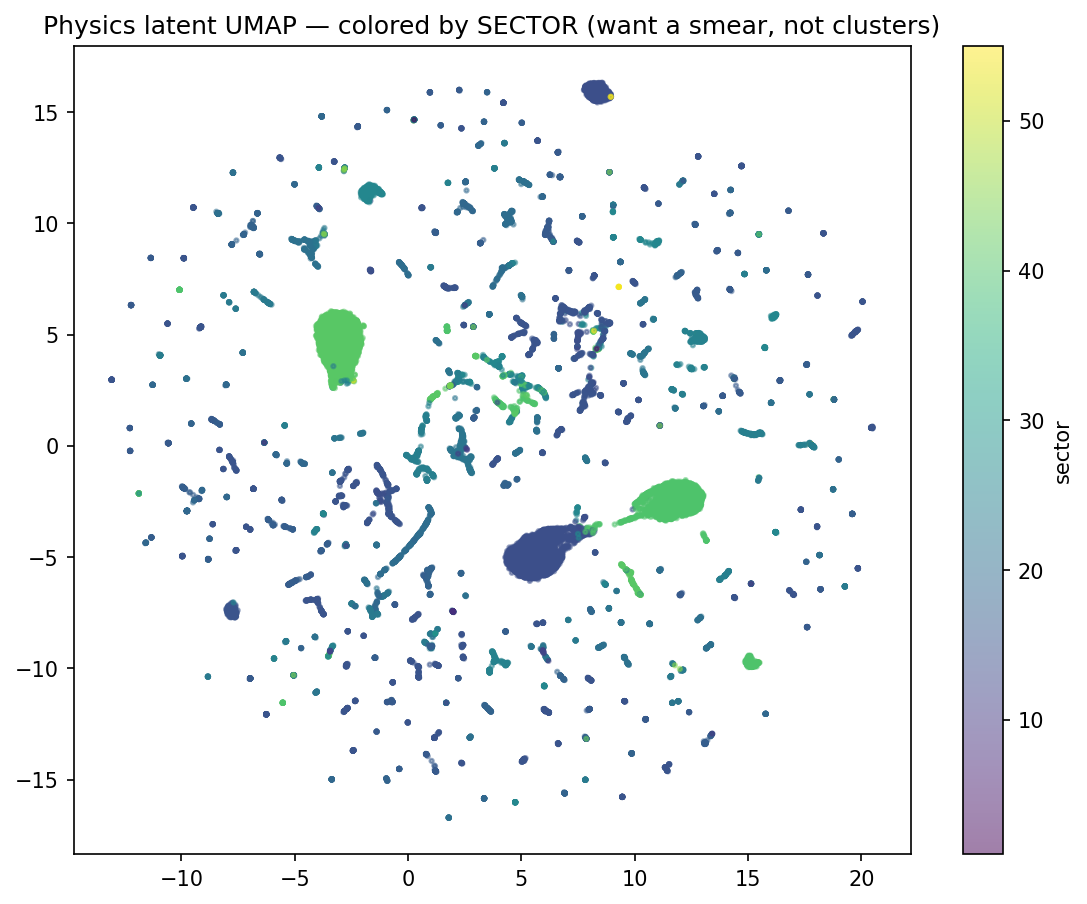
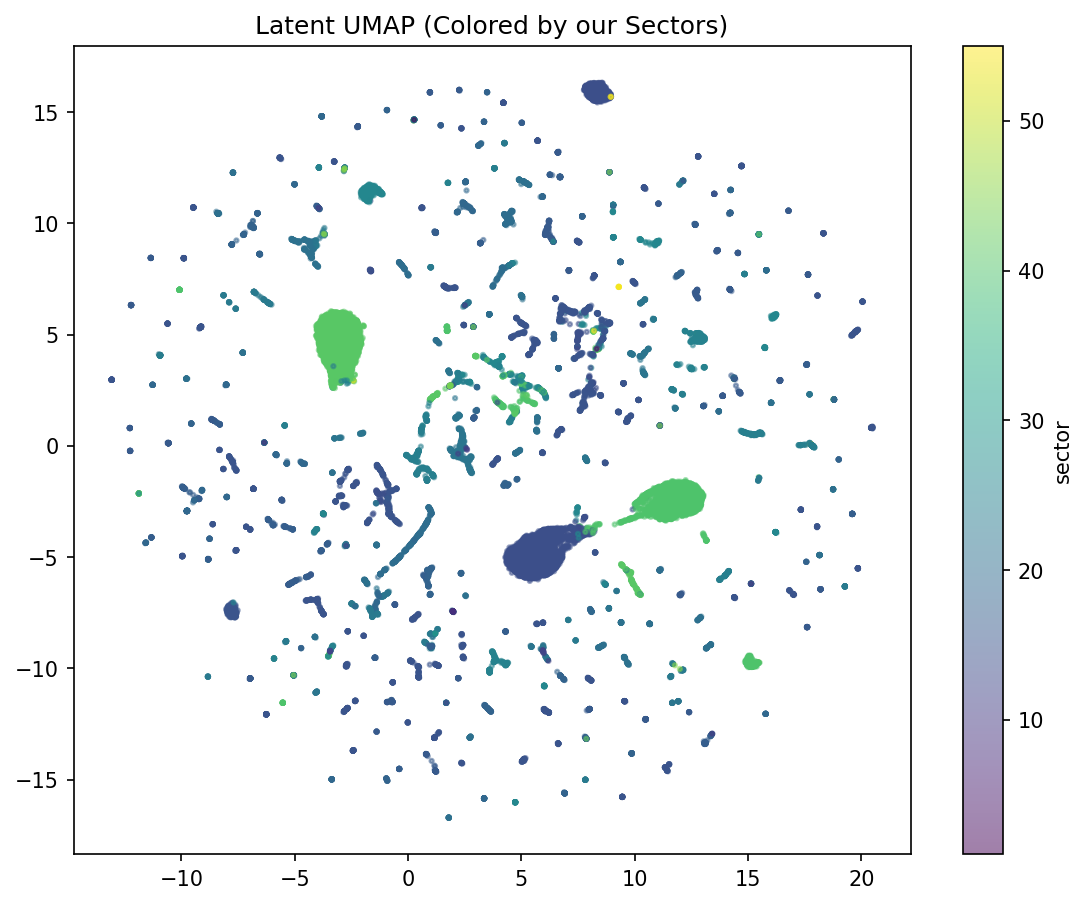
made sure that the augmentation is in forward

Changed region(s): [[0.0304, 0.0, 0.6983, 0.0619], [0.7286, 0.0, 0.85, 0.0619]]

diff --git a/src/models/physics_jepa.py b/src/models/physics_jepa.py
@@ -81,16 +81,15 @@ class PhysicsJEPA(nn.Module):
     
     def forward(self, flux, mask):
 
-        online_flux, online_mask = self.mask_input(flux, mask)
+        online_flux, online_mask = self.augment(flux, mask)
+        target_flux, target_mask = self.augment(flux, mask)
+
         z_online = self.online_encoder(online_flux.unsqueeze(-1), online_mask)
         prediction = self.predictor(z_online)
 
-
-
         with torch.no_grad():
-            z_target = self.target_encoder(flux.unsqueeze(-1), mask)
+            z_target = self.target_encoder(target_flux.unsqueeze(-1), target_mask)
 
-        
         return prediction, z_target
     
     @torch.no_grad()
